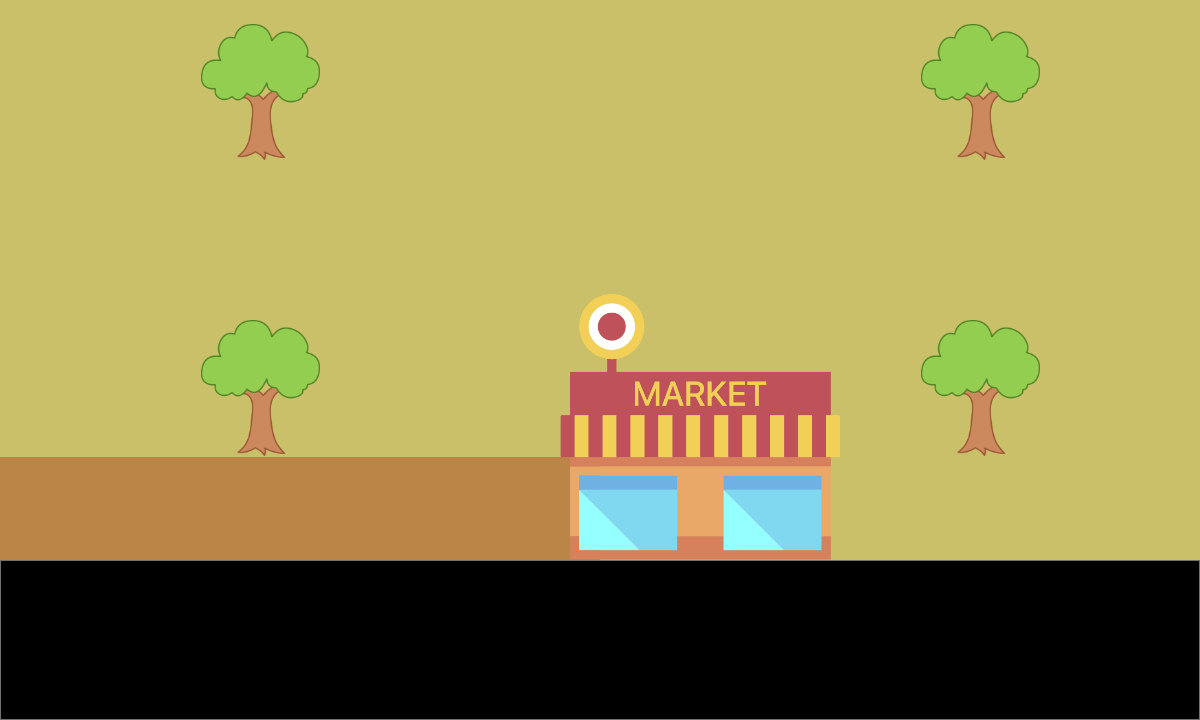
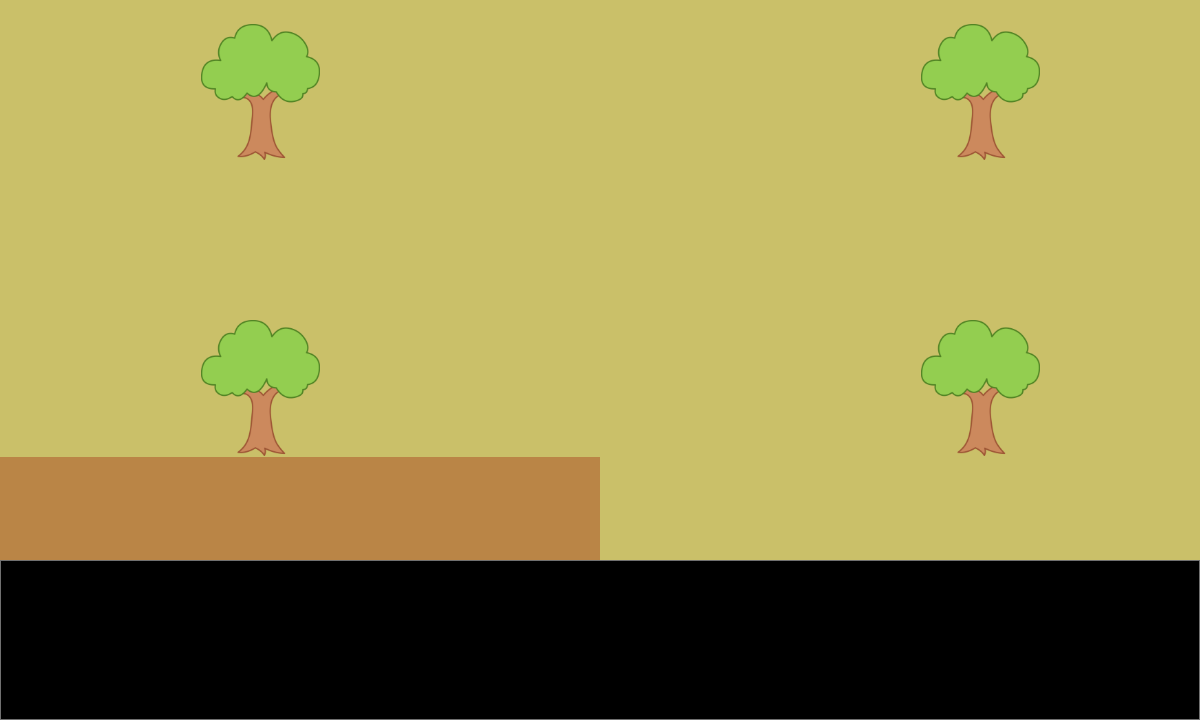
updated dirty state + outside navigation

Changed region(s): [[0.4625, 0.3972, 0.7092, 0.7944]]

diff --git a/sketch.js b/sketch.js
@@ -49,6 +49,7 @@ var homeWIndex =14;
 var downButtonIndex =15; 
 var upButtonIndex =16; 
 var backACIndex =17; 
+var outsideIndex =18;
 var emailIndex =19;
 var deleteIndex =20;
 var exitIndex =21;
@@ -90,6 +91,7 @@ var textDirty2 = false; //check if earth got dirtier and reveal mirror text
 var tempNumb = 68; //initial temp setup 
 var digitalFont; //font for AC task
 var talkImage = null; //check if image is other than main player 
+var visitMrBeach= false; //check if user met Mr.Beach
 
 function preload(){
 	//load adventure manager with states and interacions tables
@@ -406,7 +408,7 @@ clickableButtonPressed = function() {
   	adventureManager.clickablePressed(this.name);
   	//reposition player 
   	playerSprite.position.x = 784;
-	playerSprite.position.y = 404;
+	  playerSprite.position.y = 404;
   }
   else if (this.id ===emailIndex) {
   	//play click sound
@@ -426,7 +428,15 @@ clickableButtonPressed = function() {
   	adventureManager.clickablePressed(this.name);
   	//reposition
   	playerSprite.position.x = 190;
-	playerSprite.position.y = 390;
+	 playerSprite.position.y = 390;
+  }
+  else if (this.id ===outsideIndex) {
+    //play click sound
+    clickSound.play();
+    adventureManager.clickablePressed(this.name);
+    //reposition
+    playerSprite.position.x = 585;
+    playerSprite.position.y = 201;
   }
 }
 //___________Functions for Game Logistics___________//
@@ -603,6 +613,9 @@ function computerCollide() {
 	adventureManager.changeState("ComputerStart");
 }
 
+function houseCollide() {
+  adventureManager.changeState("Hallway");
+}
 //______________Subclasses_________________//
 
 class FrontYardBefore extends PNGRoom {
@@ -634,20 +647,6 @@ class FrontYardBefore extends PNGRoom {
 	}
 }
 
-class FrontYardWatered extends PNGRoom {
-	draw() {
-		super.draw();
-		//check if dirty level is greater than 1 and finished water task to show 
-		//the state where houses are underwater due the water level rising. 
-		if (homeTask) {
-			clickables[0].visiable = false;
-		}
-		else {
-			clickables[18].visiable = false;
-		}
-	}
-
-}
 
 class Kitchen extends PNGRoom {
 	preload() { 
@@ -741,12 +740,11 @@ class Hallway extends PNGRoom {
 	load() {
 		super.load();
 		//check if all the tasks are completed and display text for mom
-		if (trash == true && water ==true && checkBob == true) {
+		if (trash == true && water ==true && checkBob == true && neighor==true) {
 			if (dirtyLevel == 0) {
 				earthText = "Guys I am back~ Earth! Great job with keeping our earth clean! Play again if you want to see different endings."
 			}
 			else {
-				talkImage = momImageSad;
 				earthText = "I am back~ Earth! Why are you so dirty! We have to keep our earth clean! Play again and keep our earth clean."
 			}
 		}
@@ -770,7 +768,7 @@ class Hallway extends PNGRoom {
 		dirtyText();
 
 		//ending with mom text
-		if (trash == true && water ==true && checkBob == true) {
+		if (trash == true && water ==true && checkBob == true && neighor==true) {
 			homeTask = true;
 			if (neighbor == true){
 				if (dirtyLevel == 0) {
@@ -951,12 +949,38 @@ class MirrorClean extends PNGRoom {
   		else if (dirtyLevel ==1 ) {
   			adventureManager.changeState("MirrorDirty1");
   		}
+      else if (dirtyLevel ==2 ) {
+        adventureManager.changeState("MirrorDirty2");
+      }
+      else if (dirtyLevel ==3 ) {
+        adventureManager.changeState("MirrorDirty3");
+      }
   		else {
-  			adventureManager.changeState("MirrorDirty2");
+  			adventureManager.changeState("MirrorDirty4");
   		}
 	}
 }
-
+class Outside extends PNGRoom {
+  load() {
+    super.load();
+    //house sprite
+    this.house = createSprite(550,15,216,151);
+    this.house.addAnimation('house', loadAnimation('assets/House.png'));
+    if (visitMrBeach ==false) {
+      earthText = "Let's visit Mr.Beach!";
+    }
+  }
+  unload() {
+    super.unload();
+    earthText =" ";
+  }
+  draw() {
+    super.draw();
+    //draw house
+    drawSprite(this.house);
+    playerSprite.overlap(this.house,houseCollide);  
+  }
+}
 class Note extends PNGRoom {
 	load() {
 		//check which tasks are done and show appropriate text
